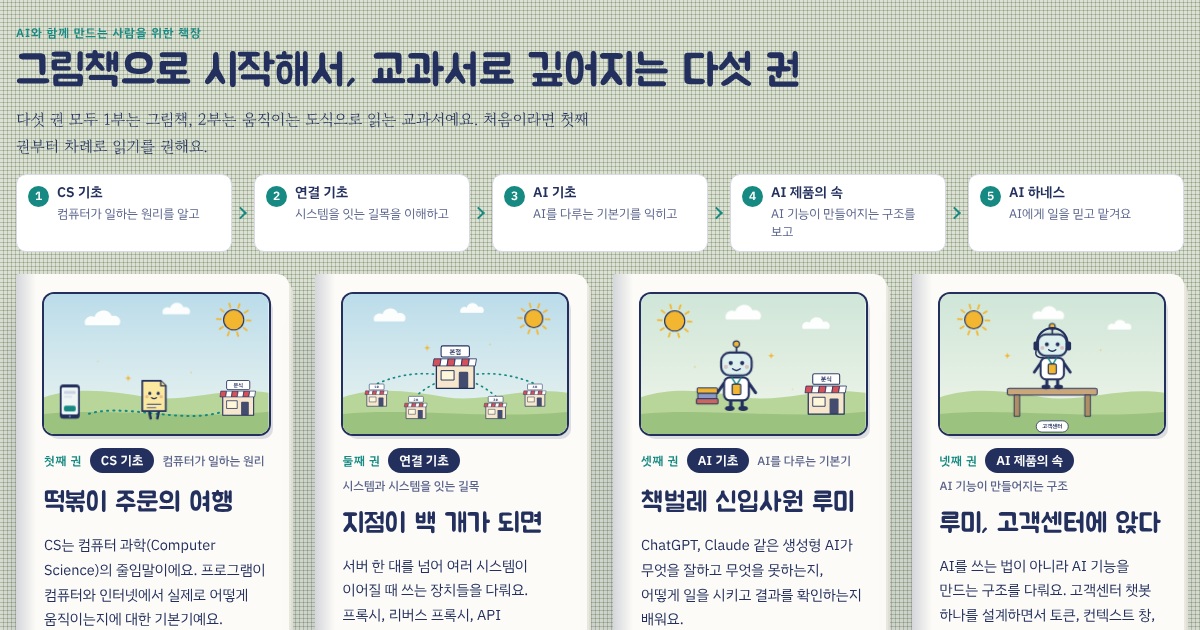
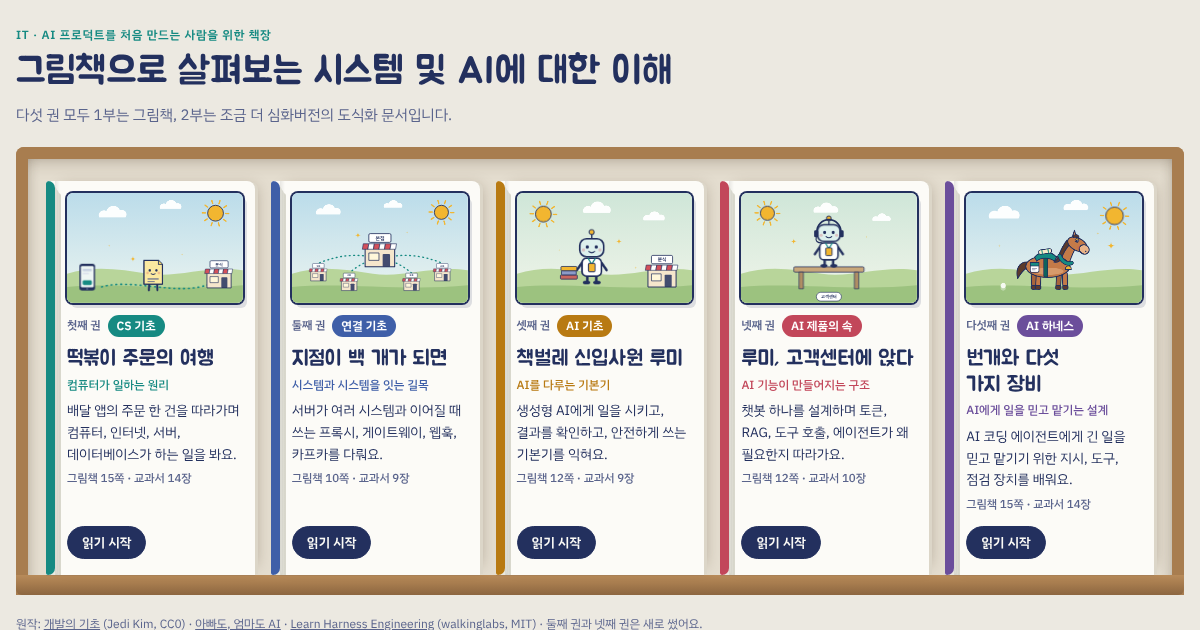
Redesign the shelf as a wooden bookcase showing all five books, remove grid background
Claude-Session: https://claude.ai/code/session_01YbhRf7M3egbNd3WHhLBYVj

diff --git a/index.html b/index.html
@@ -21,7 +21,7 @@
    이야기 아래에는 테이프로 붙인 '개발자 메모' 카드. 청록색은 오직 장비(하네스)에만 쓴다.
    인쇄된 그림책 한 권이라는 하나의 모습으로 고정한 단일 라이트 디자인. */
 :root{
-  --desk:#DCE1D5;
+  --desk:#ECE9E1;
   --desk-line:#D2D8CA;
   --paper:#FCFBF7;
   --paper-back:#EFEEE5;
@@ -45,8 +45,6 @@ html{height:100%;box-sizing:border-box}
 body{
   height:100%;margin:0;overflow:hidden;
   background:var(--desk);
-  background-image:repeating-linear-gradient(90deg,transparent 0 3px,var(--desk-line) 3px 4px),repeating-linear-gradient(0deg,transparent 0 3px,var(--desk-line) 3px 4px);
-  background-blend-mode:multiply;
   color:var(--ink);font-family:var(--font-ui);font-size:14px;
   -webkit-font-smoothing:antialiased;
 }
@@ -361,71 +359,101 @@ table.tbl{border-collapse:collapse;width:100%;font-size:13px;line-height:1.5}
 .nextline{margin:2px 0 0;font-size:13.5px;line-height:1.6;color:var(--ink-soft);word-break:keep-all;border-top:1.5px dashed var(--rule);padding-top:10px}
 .nextline b{font:600 11px/1 var(--font-ui);letter-spacing:.06em;color:var(--teal);margin-right:8px}
 .text h2{word-break:keep-all}
-
 /* ---------- 책장 (책 고르기) ---------- */
 .top-actions{display:flex;gap:8px;flex:none}
-.shelf{height:100%;overflow-y:auto;-webkit-overflow-scrolling:touch}
+.shelf{height:100%;overflow-y:auto;-webkit-overflow-scrolling:touch;background:var(--desk)}
 .shelf-inner{
-  max-width:1240px;margin:0 auto;display:flex;flex-direction:column;gap:22px;
+  max-width:1280px;margin:0 auto;display:flex;flex-direction:column;gap:20px;
   padding-left:max(16px,env(safe-area-inset-left,0px));padding-right:max(16px,env(safe-area-inset-right,0px));
-  padding-block:26px 40px;
+  padding-block:28px 32px;
 }
 .shelf-head{display:flex;flex-direction:column;gap:8px}
-.shelf-kicker{margin:0;font:600 12px/1.2 var(--font-ui);letter-spacing:.08em;color:var(--teal)}
-.shelf h1{margin:0;font-family:var(--font-display);font-weight:400;font-size:clamp(30px,6vw,44px);line-height:1.12;color:var(--ink);text-wrap:balance}
-.shelf-sub{margin:0;font-family:var(--font-story);font-size:16px;line-height:1.7;color:var(--ink);word-break:keep-all;max-width:38em}
-.shelf-books{display:grid;grid-template-columns:repeat(auto-fit,minmax(260px,1fr));gap:26px}
-.bookcard{
-  position:relative;display:flex;flex-direction:column;gap:14px;min-width:0;
-  background:var(--paper);border-radius:3px 12px 12px 3px;padding:20px 20px 20px 28px;
-  box-shadow:3px 3px 0 -1px #EAE9E0,6px 6px 0 -2px #E1E0D6,0 22px 40px -16px rgba(35,48,94,.4);
+.shelf-kicker{margin:0;font:600 12px/1.2 var(--font-ui);letter-spacing:.06em;color:var(--teal)}
+.shelf h1{margin:0;font-family:var(--font-display);font-weight:400;font-size:clamp(26px,3.6vw,38px);line-height:1.18;color:var(--ink);text-wrap:balance}
+.shelf-sub{margin:0;font-size:15px;line-height:1.6;color:var(--ink-soft)}
+#shelf h1,#shelf h2,#shelf p{word-break:keep-all}
+
+/* 나무 책장: 옆판과 윗판, 바닥 선반 */
+.case{
+  --wood:#A87D4F;--wood-dark:#8C6640;
+  position:relative;background:#E4DDCF;
+  border:12px solid var(--wood);border-bottom:0;border-radius:8px 8px 0 0;
+  box-shadow:inset 0 10px 18px -10px rgba(60,40,20,.35),inset 10px 0 14px -12px rgba(60,40,20,.3),inset -10px 0 14px -12px rgba(60,40,20,.3);
+  padding:22px 18px 0;
 }
-.bookcard::before{content:"";position:absolute;left:0;top:0;bottom:0;width:20px;border-radius:3px 0 0 3px;background:linear-gradient(90deg,rgba(35,48,94,.18),rgba(35,48,94,0));pointer-events:none}
-.bookcard .plate{width:100%;height:auto;aspect-ratio:8/5}
-.bookcard .vol{margin:0;display:flex;flex-wrap:wrap;align-items:center;gap:6px 8px;font:500 12px/1.2 var(--font-ui);color:var(--ink-soft)}
-.bookcard .volno{font-weight:600;letter-spacing:.06em;color:var(--teal)}
-.bookcard .subject{font:600 13px/1 var(--font-ui);color:#fff;background:var(--ink);border-radius:999px;padding:6px 11px}
-.bookcard .lbl{margin:2px 0 -8px;font:600 11px/1.2 var(--font-ui);letter-spacing:.08em;color:var(--teal)}
-.bookcard .learn{margin:0;padding-left:1.1em;display:flex;flex-direction:column;gap:4px}
-.bookcard .learn li{font-size:13.5px;line-height:1.6;word-break:keep-all;color:var(--ink)}
-.bookcard .learn li::marker{color:var(--teal)}
-.bookcard .who{margin:0;font-size:13.5px;line-height:1.6;word-break:keep-all;color:var(--ink)}
-.bookcard h2{margin:0;font-family:var(--font-display);font-weight:400;font-size:27px;line-height:1.18;color:var(--ink);text-wrap:balance}
-.bookcard .desc{margin:0;font-size:14.5px;line-height:1.7;word-break:keep-all;color:var(--ink)}
-.bookcard .meta{margin:0;padding:0;list-style:none;display:flex;flex-wrap:wrap;gap:6px}
-.bookcard .meta li{font:500 12px/1 var(--font-ui);color:var(--ink-soft);border:1.5px solid var(--rule);border-radius:999px;padding:6px 10px;background:#fff}
-.bookcard .actions{margin-top:auto}
-.shelf-foot{margin:0;font-size:12.5px;line-height:1.6;color:var(--ink-soft)}
+.case::after{
+  content:"";display:block;height:20px;margin:0 -30px;
+  background:linear-gradient(180deg,#B88B5A,var(--wood) 40%,var(--wood-dark));
+  border-radius:0 0 6px 6px;box-shadow:0 14px 24px -14px rgba(60,40,20,.55);
+}
+.shelf-books{display:grid;grid-template-columns:repeat(5,minmax(0,1fr));gap:16px;align-items:stretch}
+
+/* 책 한 권 */
+.book{
+  position:relative;display:flex;flex-direction:column;min-width:0;
+  background:var(--paper);border-radius:3px 8px 0 0;overflow:hidden;
+  box-shadow:0 1px 0 rgba(35,48,94,.08),4px 0 0 -1px #DCD6C8,8px -2px 14px -8px rgba(60,40,20,.35);
+  transition:transform .18s ease,box-shadow .18s ease;
+}
+.book::before{content:"";position:absolute;left:0;top:0;bottom:0;width:9px;background:var(--bc);z-index:2}
+.book::after{content:"";position:absolute;left:9px;top:0;bottom:0;width:5px;background:linear-gradient(90deg,rgba(0,0,0,.08),rgba(0,0,0,0));pointer-events:none;z-index:2}
+.book{cursor:pointer}
+.book:hover{transform:translateY(-6px)}
+.book .cover{padding:12px 12px 0 21px}
+.book .plate{margin:0;width:100%;height:auto;aspect-ratio:8/5;border-radius:6px}
+.book .info{display:flex;flex-direction:column;gap:7px;padding:12px 14px 16px 21px;flex:1;min-width:0}
+.book .vol{margin:0;display:flex;align-items:center;gap:7px;flex-wrap:wrap;font:600 11.5px/1 var(--font-ui);color:var(--ink-soft)}
+.book .subject{font:600 12px/1 var(--font-ui);color:#fff;background:var(--bc);border-radius:999px;padding:5px 9px}
+.book h2{margin:2px 0 0;font-family:var(--font-display);font-weight:400;font-size:21px;line-height:1.22;color:var(--ink);text-wrap:balance}
+.book .topic{margin:-2px 0 0;font:500 12px/1.4 var(--font-ui);color:var(--bc)}
+.book .desc{margin:0;font-size:13.5px;line-height:1.6;color:var(--ink)}
+.book .meta{margin:0;font:500 11.5px/1.3 var(--font-ui);color:var(--ink-soft)}
+.book .actions{margin-top:auto;padding-top:6px;display:flex;gap:6px;flex-wrap:wrap}
+.book .actions .solid{padding:9px 14px;font-size:13px}
+.book .actions .ghost{padding:9px 10px;font-size:12px}
+
+.shelf-foot{margin:0;font-size:12px;line-height:1.6;color:var(--ink-soft)}
 .shelf-foot a{color:var(--ink-soft)}
 #root{height:100%}
 
-#shelf h1,#shelf h2,#shelf p{word-break:keep-all}
-.path{list-style:none;margin:6px 0 0;padding:0;display:flex;flex-wrap:wrap;gap:8px 22px;counter-reset:pth}
-.path li{position:relative;counter-increment:pth;display:flex;flex-direction:column;gap:3px;padding:10px 14px 10px 40px;background:#fff;border:1.5px solid var(--rule);border-radius:10px;min-width:0;flex:1 1 150px}
-.path li::before{content:counter(pth);position:absolute;left:11px;top:11px;width:21px;height:21px;border-radius:50%;background:var(--teal);color:#fff;font:600 12px/21px var(--font-ui);text-align:center}
-.path li + li::after{content:"";position:absolute;left:-19px;top:50%;width:9px;height:9px;border-top:2px solid var(--teal);border-right:2px solid var(--teal);transform:translateY(-50%) rotate(45deg)}
-.path b{font:600 14px/1.2 var(--font-ui);color:var(--ink)}
-.path span{font-size:12.5px;line-height:1.45;color:var(--ink-soft);word-break:keep-all}
-@media (max-width:719px){.path{flex-direction:column;gap:8px}.path li{flex:none}.path li + li::after{display:none}}
+/* 좁은 화면: 책을 눕혀 한 줄씩 */
+@media (max-width:899px){
+  .shelf-books{grid-template-columns:1fr;gap:12px}
+  .case{padding:14px 12px 14px}
+  .case::after{margin:14px -24px 0}
+  .book{flex-direction:row;border-radius:3px 8px 8px 3px}
+  .book:hover{transform:none}
+  .book .cover{flex:0 0 38%;max-width:240px;padding:12px 0 12px 21px;align-self:flex-start}
+  .book .info{padding:12px 14px 14px}
+  .book h2{font-size:19px}
+  .book .meta{display:none}
+}
+@media (max-width:479px){
+  .shelf-inner{gap:16px;padding-block:20px 24px}
+  .shelf-sub{font-size:14px}
+  .book .cover{flex-basis:32%;padding:10px 0 10px 19px}
+  .book .info{gap:5px;padding:10px 12px 12px}
+  .book .topic,.book .actions .solid{display:none}
+  .book .actions{padding-top:2px}
+  .book .actions:empty{display:none}
+  .book .desc{font-size:13px;line-height:1.5}
+  .book h2{font-size:17.5px}
+  .book .info::after{content:"읽기 →";align-self:flex-start;margin-top:2px;font:600 12px/1 var(--font-ui);color:var(--bc)}
+}
 </style>
 </head>
 <body>
 <div class="shelf" id="shelf">
   <div class="shelf-inner">
     <header class="shelf-head">
-      <p class="shelf-kicker">AI와 함께 만드는 사람을 위한 책장</p>
-      <h1>그림책으로 시작해서, 교과서로 깊어지는 다섯 권</h1>
-      <p class="shelf-sub">다섯 권 모두 1부는 그림책, 2부는 움직이는 도식으로 읽는 교과서예요. 처음이라면 첫째 권부터 차례로 읽기를 권해요.</p>
-      <ol class="path" aria-label="읽는 순서">
-        <li><b>CS 기초</b><span>컴퓨터가 일하는 원리를 알고</span></li>
-        <li><b>연결 기초</b><span>시스템을 잇는 길목을 이해하고</span></li>
-        <li><b>AI 기초</b><span>AI를 다루는 기본기를 익히고</span></li>
-        <li><b>AI 제품의 속</b><span>AI 기능이 만들어지는 구조를 보고</span></li>
-        <li><b>AI 하네스</b><span>AI에게 일을 믿고 맡겨요</span></li>
-      </ol>
+      <p class="shelf-kicker">IT · AI 프로덕트를 처음 만드는 사람을 위한 책장</p>
+      <h1>그림책으로 살펴보는 시스템 및 AI에 대한 이해</h1>
+      <p class="shelf-sub">다섯 권 모두 1부는 그림책, 2부는 조금 더 심화버전의 도식화 문서입니다.</p>
     </header>
-    <div class="shelf-books" id="shelfBooks"></div>
-    <p class="shelf-foot">원작: <a href="https://github.com/jedikim/cs-foundations" target="_blank" rel="noopener">개발의 기초</a> (Jedi Kim, CC0) · <a href="https://textbook-web-production.up.railway.app/" target="_blank" rel="noopener">아빠도, 엄마도 AI</a> · <a href="https://github.com/walkinglabs/learn-harness-engineering" target="_blank" rel="noopener">Learn Harness Engineering</a> (walkinglabs, MIT)</p>
+    <div class="case">
+      <div class="shelf-books" id="shelfBooks"></div>
+    </div>
+    <p class="shelf-foot">원작: <a href="https://github.com/jedikim/cs-foundations" target="_blank" rel="noopener">개발의 기초</a> (Jedi Kim, CC0) · <a href="https://textbook-web-production.up.railway.app/" target="_blank" rel="noopener">아빠도, 엄마도 AI</a> · <a href="https://github.com/walkinglabs/learn-harness-engineering" target="_blank" rel="noopener">Learn Harness Engineering</a> (walkinglabs, MIT) · 둘째 권과 넷째 권은 새로 썼어요.</p>
   </div>
 </div>
 <div id="root" hidden></div>
@@ -5937,27 +5965,27 @@ if (resume && saved && saved > 0 && saved < N && start === null){
 
 /* ---------- 책장: 책 고르기 ---------- */
 var SHELF = [
-  { key: 'cs', vol: '첫째 권', subject: 'CS 기초', subjectSub: '컴퓨터가 일하는 원리', title: '떡볶이 주문의 여행',
+  { key: 'cs', color: '#168A82', blurb: '배달 앱의 주문 한 건을 따라가며 컴퓨터, 인터넷, 서버, 데이터베이스가 하는 일을 봐요.', vol: '첫째 권', subject: 'CS 기초', subjectSub: '컴퓨터가 일하는 원리', title: '떡볶이 주문의 여행',
     what: 'CS는 컴퓨터 과학(Computer Science)의 줄임말이에요. 프로그램이 컴퓨터와 인터넷에서 실제로 어떻게 움직이는지에 대한 기본기예요.',
     learn: ['컴퓨터, 인터넷, 서버, 데이터베이스가 하는 일', '코드가 실행되고, 저장되고, 배포되는 과정', 'AI가 만든 결과를 확인하고 문제를 좁히는 눈'],
     who: 'AI로 무언가 만들기 시작했는데 용어와 원리가 낯선 분',
     meta: ['그림책 15쪽', '교과서 14장'] },
-  { key: 'net', vol: '둘째 권', subject: '연결 기초', subjectSub: '시스템과 시스템을 잇는 길목', title: '지점이 백 개가 되면',
+  { key: 'net', color: '#3F5FA8', blurb: '서버가 여러 시스템과 이어질 때 쓰는 프록시, 게이트웨이, 웹훅, 카프카를 다뤄요.', vol: '둘째 권', subject: '연결 기초', subjectSub: '시스템과 시스템을 잇는 길목', title: '지점이 백 개가 되면',
     what: '서버 한 대를 넘어 여러 시스템이 이어질 때 쓰는 장치들을 다뤄요. 프록시, 리버스 프록시, API 게이트웨이, IP ACL, 웹훅, 카프카가 왜 생겼고 어떻게 동작하는지 배워요.',
     learn: ['길목의 종류와 차이, 길목이 내는 상태 코드', '출입 통제, 웹훅 검증, 카프카의 순서와 중복', '타임아웃, 재시도, 추적으로 장애 구간 좁히기'],
     who: '연동 회의에서 용어는 들었는데 정확한 차이와 동작이 궁금했던 분. 연동 설계를 다루는 깊은 내용이에요.',
     meta: ['그림책 10쪽', '교과서 9장'] },
-  { key: 'ai', vol: '셋째 권', subject: 'AI 기초', subjectSub: 'AI를 다루는 기본기', title: '책벌레 신입사원 루미',
+  { key: 'ai', color: '#B87A12', blurb: '생성형 AI에게 일을 시키고, 결과를 확인하고, 안전하게 쓰는 기본기를 익혀요.', vol: '셋째 권', subject: 'AI 기초', subjectSub: 'AI를 다루는 기본기', title: '책벌레 신입사원 루미',
     what: 'ChatGPT, Claude 같은 생성형 AI가 무엇을 잘하고 무엇을 못하는지, 어떻게 일을 시키고 결과를 확인하는지 배워요.',
     learn: ['좋은 지시문의 네 가지 요소와 검수하는 법', 'AI의 기억력, 자료 첨부, 역할 분담', '에이전트, 도구, MCP 같은 요즘 용어와 안전 수칙'],
     who: 'AI를 써 보긴 했지만 답이 들쭉날쭉해서 답답했던 분',
     meta: ['그림책 12쪽', '교과서 9장'] },
-  { key: 'llm', vol: '넷째 권', subject: 'AI 제품의 속', subjectSub: 'AI 기능이 만들어지는 구조', title: '루미, 고객센터에 앉다',
+  { key: 'llm', color: '#C2475A', blurb: '챗봇 하나를 설계하며 토큰, RAG, 도구 호출, 에이전트가 왜 필요한지 따라가요.', vol: '넷째 권', subject: 'AI 제품의 속', subjectSub: 'AI 기능이 만들어지는 구조', title: '루미, 고객센터에 앉다',
     what: 'AI를 쓰는 법이 아니라 AI 기능을 만드는 구조를 다뤄요. 고객센터 챗봇 하나를 설계하면서 토큰, 컨텍스트 창, RAG, 도구 호출, 에이전트, 가드레일이 왜 필요한지 따라가요.',
     learn: ['모델 호출의 구조와 토큰, 컨텍스트 창, 환각의 원인', 'RAG와 파인튜닝의 차이, 도구 호출과 에이전트', '가드레일, 응답 시간과 비용이 정해지는 방식'],
     who: '기술을 직접 다루지 않지만 AI 기능을 기획하고 개발팀과 이야기해야 하는 분',
     meta: ['그림책 12쪽', '교과서 10장'] },
-  { key: 'harness', vol: '다섯째 권', subject: 'AI 하네스', subjectSub: 'AI에게 일을 믿고 맡기는 설계', title: '번개와 다섯 가지 장비',
+  { key: 'harness', color: '#6B4E9B', blurb: 'AI 코딩 에이전트에게 긴 일을 믿고 맡기기 위한 지시, 도구, 점검 장치를 배워요.', vol: '다섯째 권', subject: 'AI 하네스', subjectSub: 'AI에게 일을 믿고 맡기는 설계', title: '번개와 다섯 가지 장비',
     what: '하네스(harness)는 말에게 채우는 장비라는 뜻이에요. AI 코딩 에이전트가 엉뚱한 길로 가지 않도록 둘러 주는 지시, 도구, 점검 장치를 통틀어 이렇게 불러요.',
     learn: ['똑똑한 AI가 일을 그르치는 이유', '번개에게 채워 주는 다섯 가지 장비와 쓰임', '긴 작업을 끝까지 맡기는 하네스 설계'],
     who: 'AI에게 코딩을 맡겨 봤는데 끝까지 믿고 맡기기 어려웠던 분',
@@ -5980,21 +6008,24 @@ function openShelf(){
   rootEl.innerHTML = '';
   rootEl.hidden = true;
   shelfEl.hidden = false;
-  document.title = 'AI 개발 책장';
+  document.title = '시스템과 AI 책장';
   try { history.replaceState(null, '', location.pathname + location.search); } catch (e) {}
   shelfEl.scrollTop = 0;
 }
 document.getElementById('shelfBooks').innerHTML = SHELF.map(function(b){
   var def = getDef(b.key), saved = 0;
   try { saved = parseInt(localStorage.getItem(def.cfg.id + '-page') || '', 10) || 0; } catch (e) {}
-  return '<article class="bookcard"><figure class="plate play" style="margin:0">' + def.scenes[0]() + '</figure>' +
-    '<p class="vol"><span class="volno">' + b.vol + '</span><span class="subject">' + b.subject + '</span><span class="subsub">' + b.subjectSub + '</span></p>' +
-    '<h2>' + b.title + '</h2><p class="desc">' + b.what + '</p>' +
-    '<p class="lbl">배우는 것</p><ul class="learn">' + b.learn.map(function(m){ return '<li>' + m + '</li>'; }).join('') + '</ul>' +
-    '<p class="lbl">이런 분께</p><p class="who">' + b.who + '</p>' +
-    '<ul class="meta">' + b.meta.map(function(m){ return '<li>' + m + '</li>'; }).join('') + '</ul>' +
-    '<div class="actions"><button class="solid" type="button" data-book="' + b.key + '">' + (saved > 0 ? '이어서 읽기' : '읽기 시작') + '</button>' +
-    (saved > 0 ? '<button class="ghost" type="button" data-book="' + b.key + '" data-first="1">처음부터</button>' : '') + '</div></article>';
+  return '<article class="book" data-book="' + b.key + '" style="--bc:' + b.color + '">' +
+    '<div class="cover"><figure class="plate play">' + def.scenes[0]() + '</figure></div>' +
+    '<div class="info">' +
+      '<p class="vol"><span class="volno">' + b.vol + '</span><span class="subject">' + b.subject + '</span></p>' +
+      '<h2>' + b.title + '</h2>' +
+      '<p class="topic">' + b.subjectSub + '</p>' +
+      '<p class="desc">' + b.blurb + '</p>' +
+      '<p class="meta">' + b.meta.join(' · ') + '</p>' +
+      '<div class="actions"><button class="solid" type="button" data-book="' + b.key + '">' + (saved > 0 ? '이어서 읽기' : '읽기 시작') + '</button>' +
+      (saved > 0 ? '<button class="ghost" type="button" data-book="' + b.key + '" data-first="1">처음부터</button>' : '') + '</div>' +
+    '</div></article>';
 }).join('');
 document.addEventListener('click', function(e){
   var t = e.target.closest ? e.target.closest('[data-book],#shelfBtn') : null;
